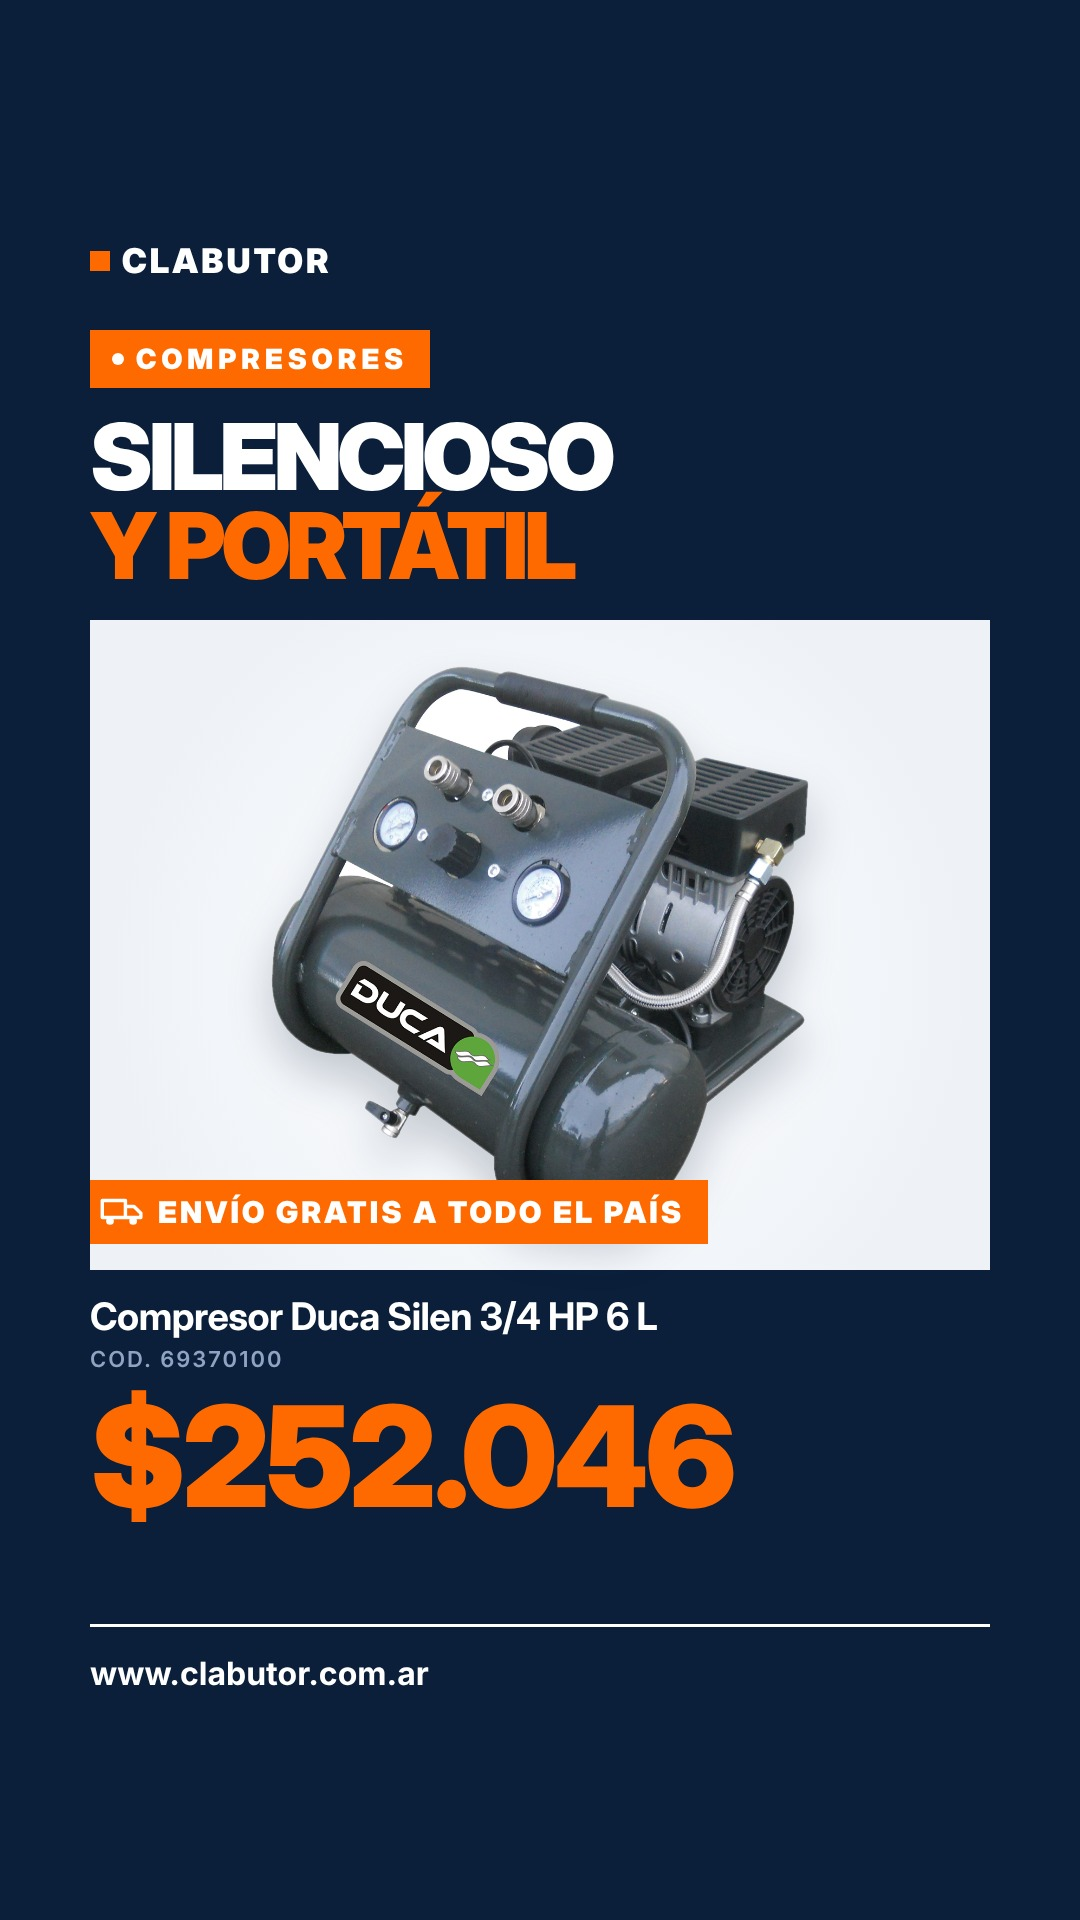
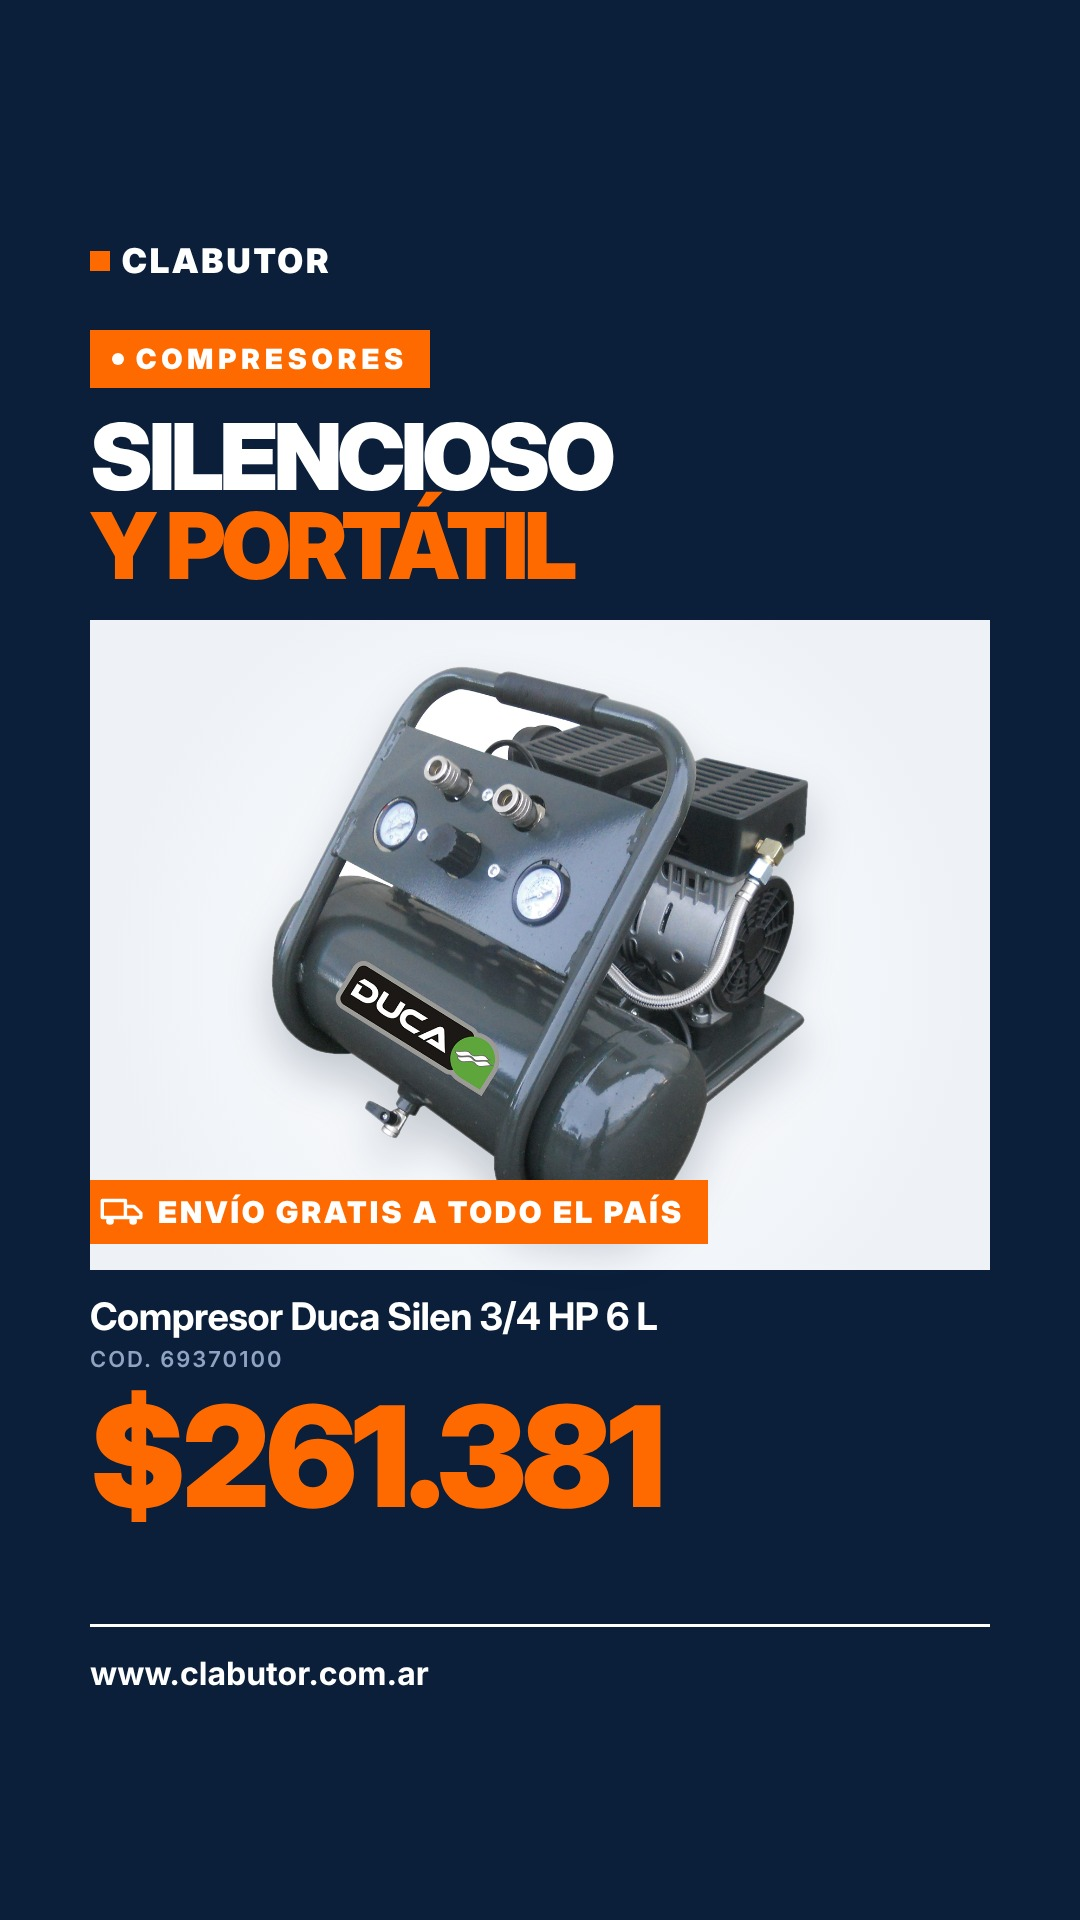
Historias de compresores: precio costo + 40 %
Claude-Session: https://claude.ai/code/session_01XbJLpPx7CCs1ipZpL6GiAh

Changed region(s): [[0.2444, 0.7188, 0.7028, 0.8125]]

diff --git a/disenos/posteos/historia-compresores.py b/disenos/posteos/historia-compresores.py
@@ -1,6 +1,6 @@
 """Historias — Compresores, de chico a grande (solo con stock en BaseLinker al 05/11).
 Precio = costo informado por la sincronización (INVENTARIO COMPLETO FEMA 2026 MATIAS, grupo 65271)
-+ 35 %, redondeado al peso. Envío gratis a todo el país. Historias de producto sin barras."""
++ 40 %, redondeado al peso. Envío gratis a todo el país. Historias de producto sin barras."""
 
 import importlib.util
 from pathlib import Path
@@ -10,7 +10,7 @@ FORMATO = "historia"
 CINTA = None
 RUBRO = ""
 TEXTO = ""
-MARGEN = 1.35
+MARGEN = 1.40
 NARANJA = "#FF6A00"
 
 _spec = importlib.util.spec_from_file_location("cyber_c", Path(__file__).with_name("historia-cyber-c.py"))
